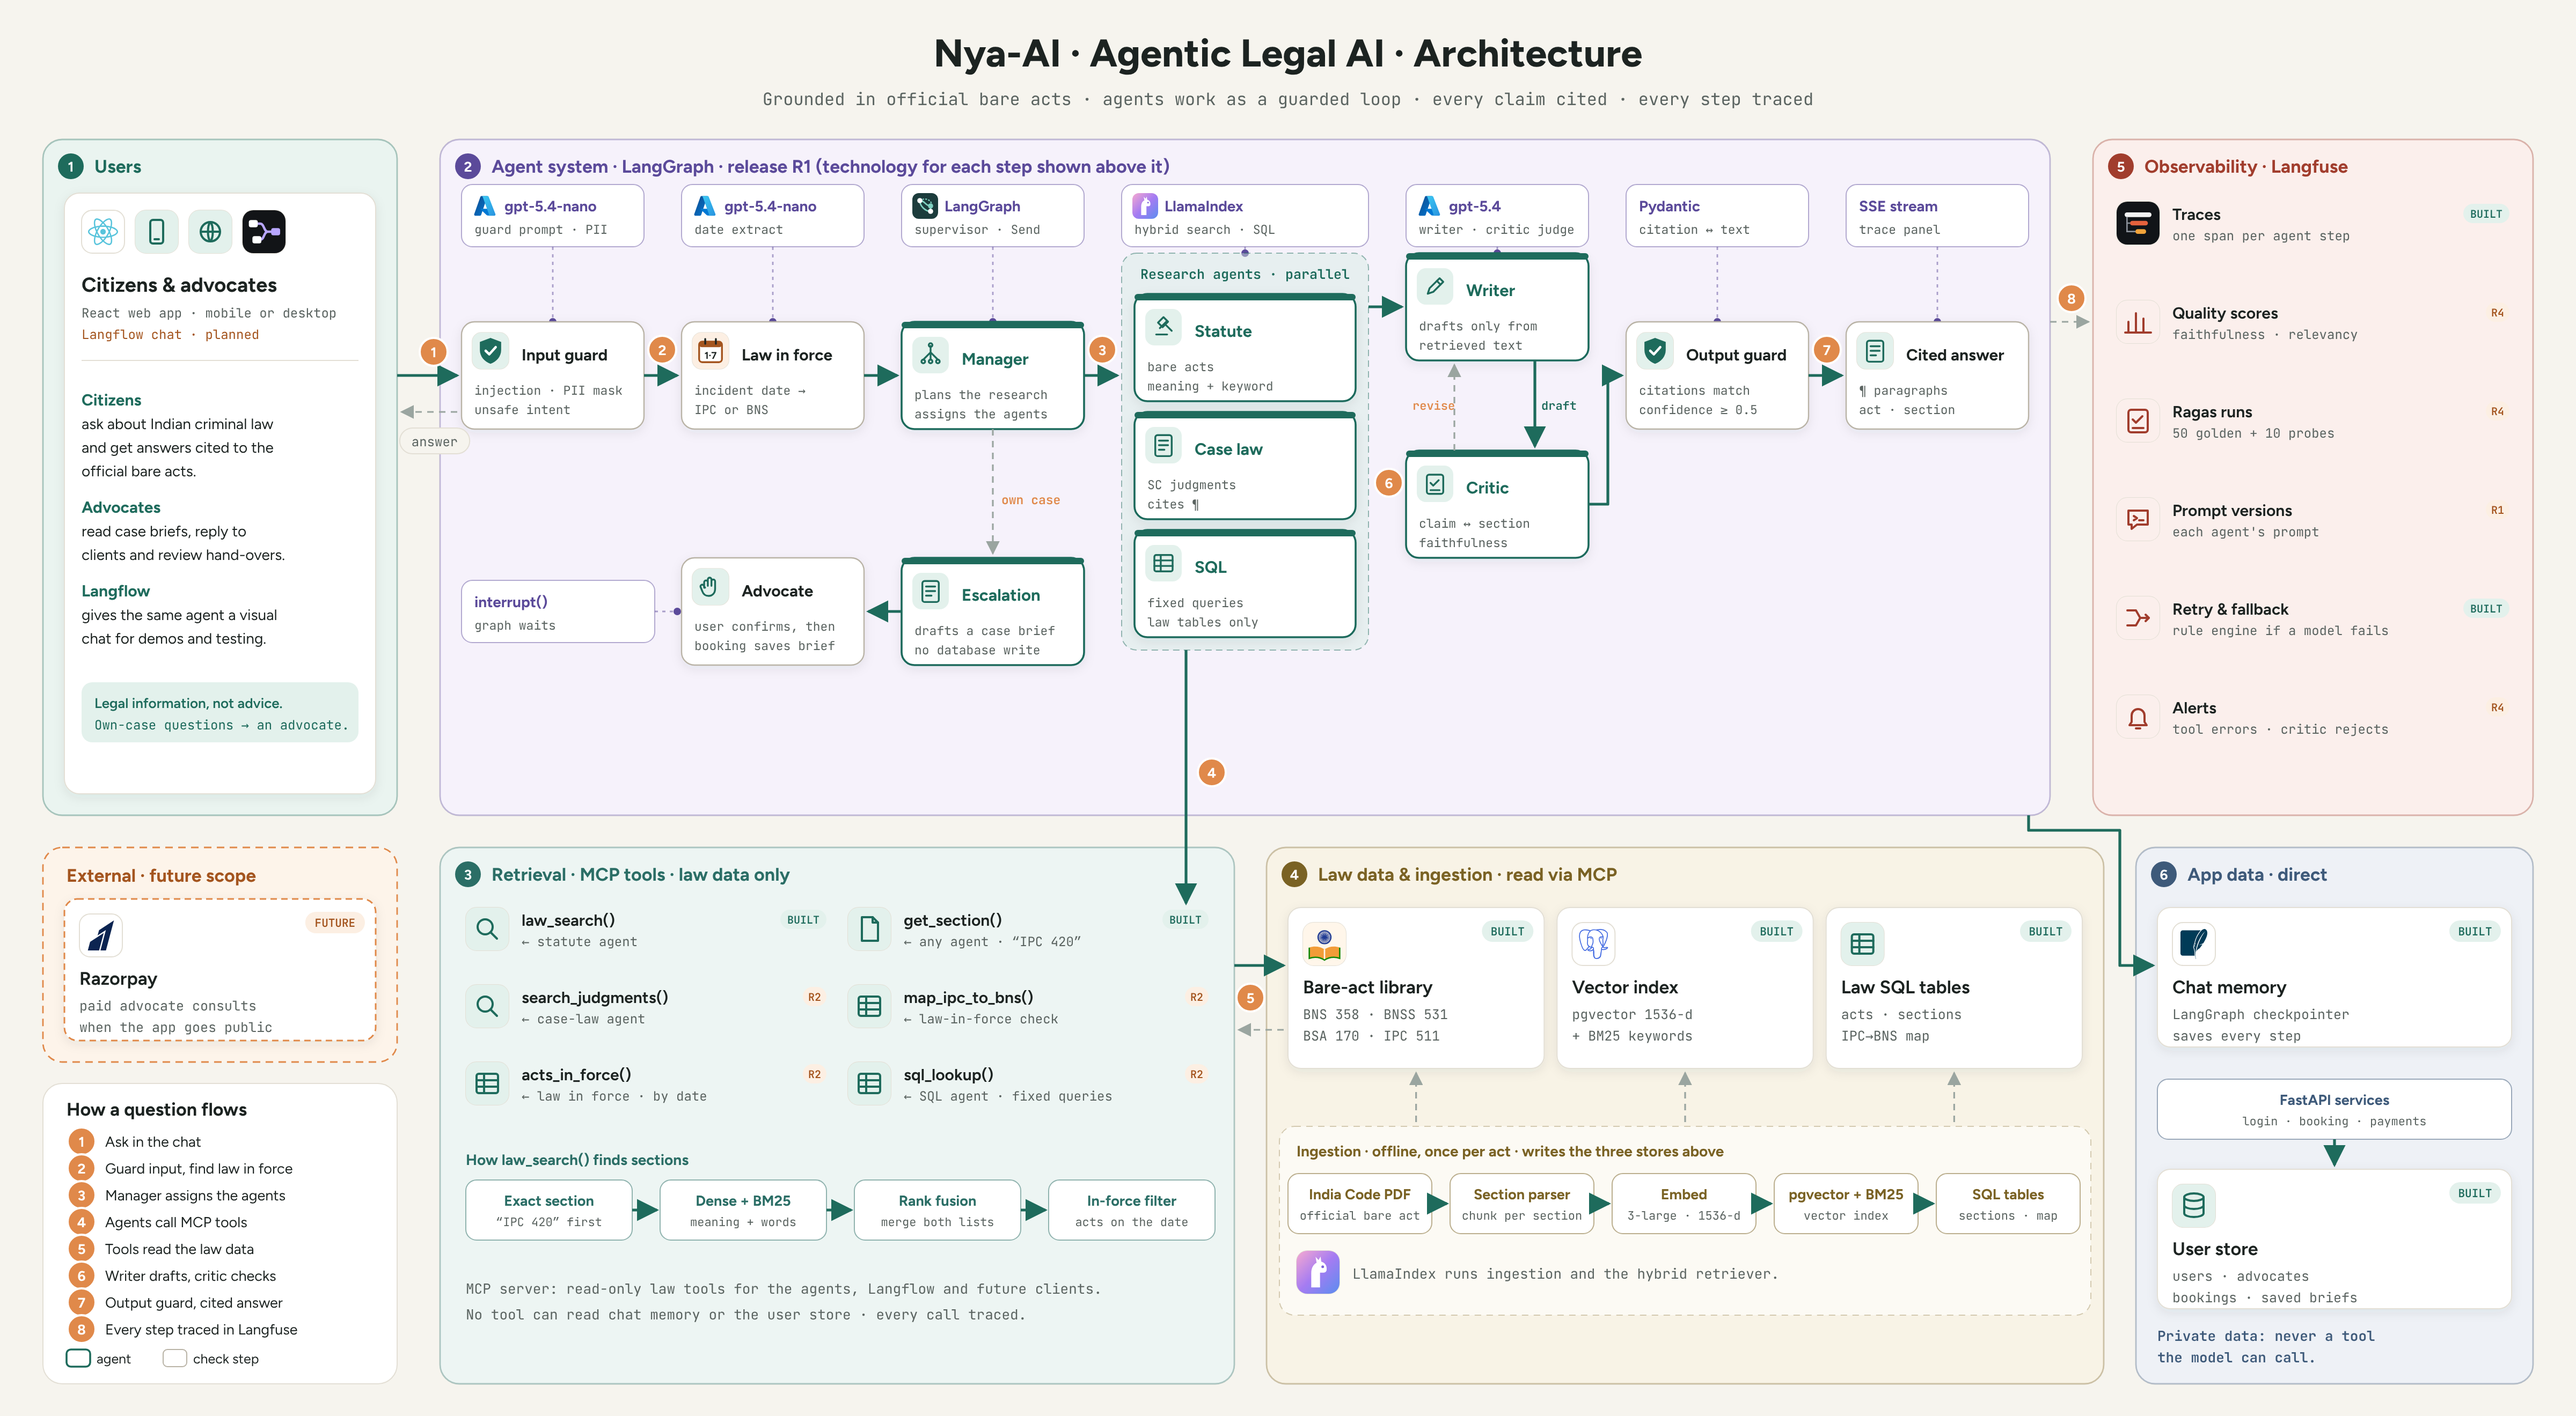
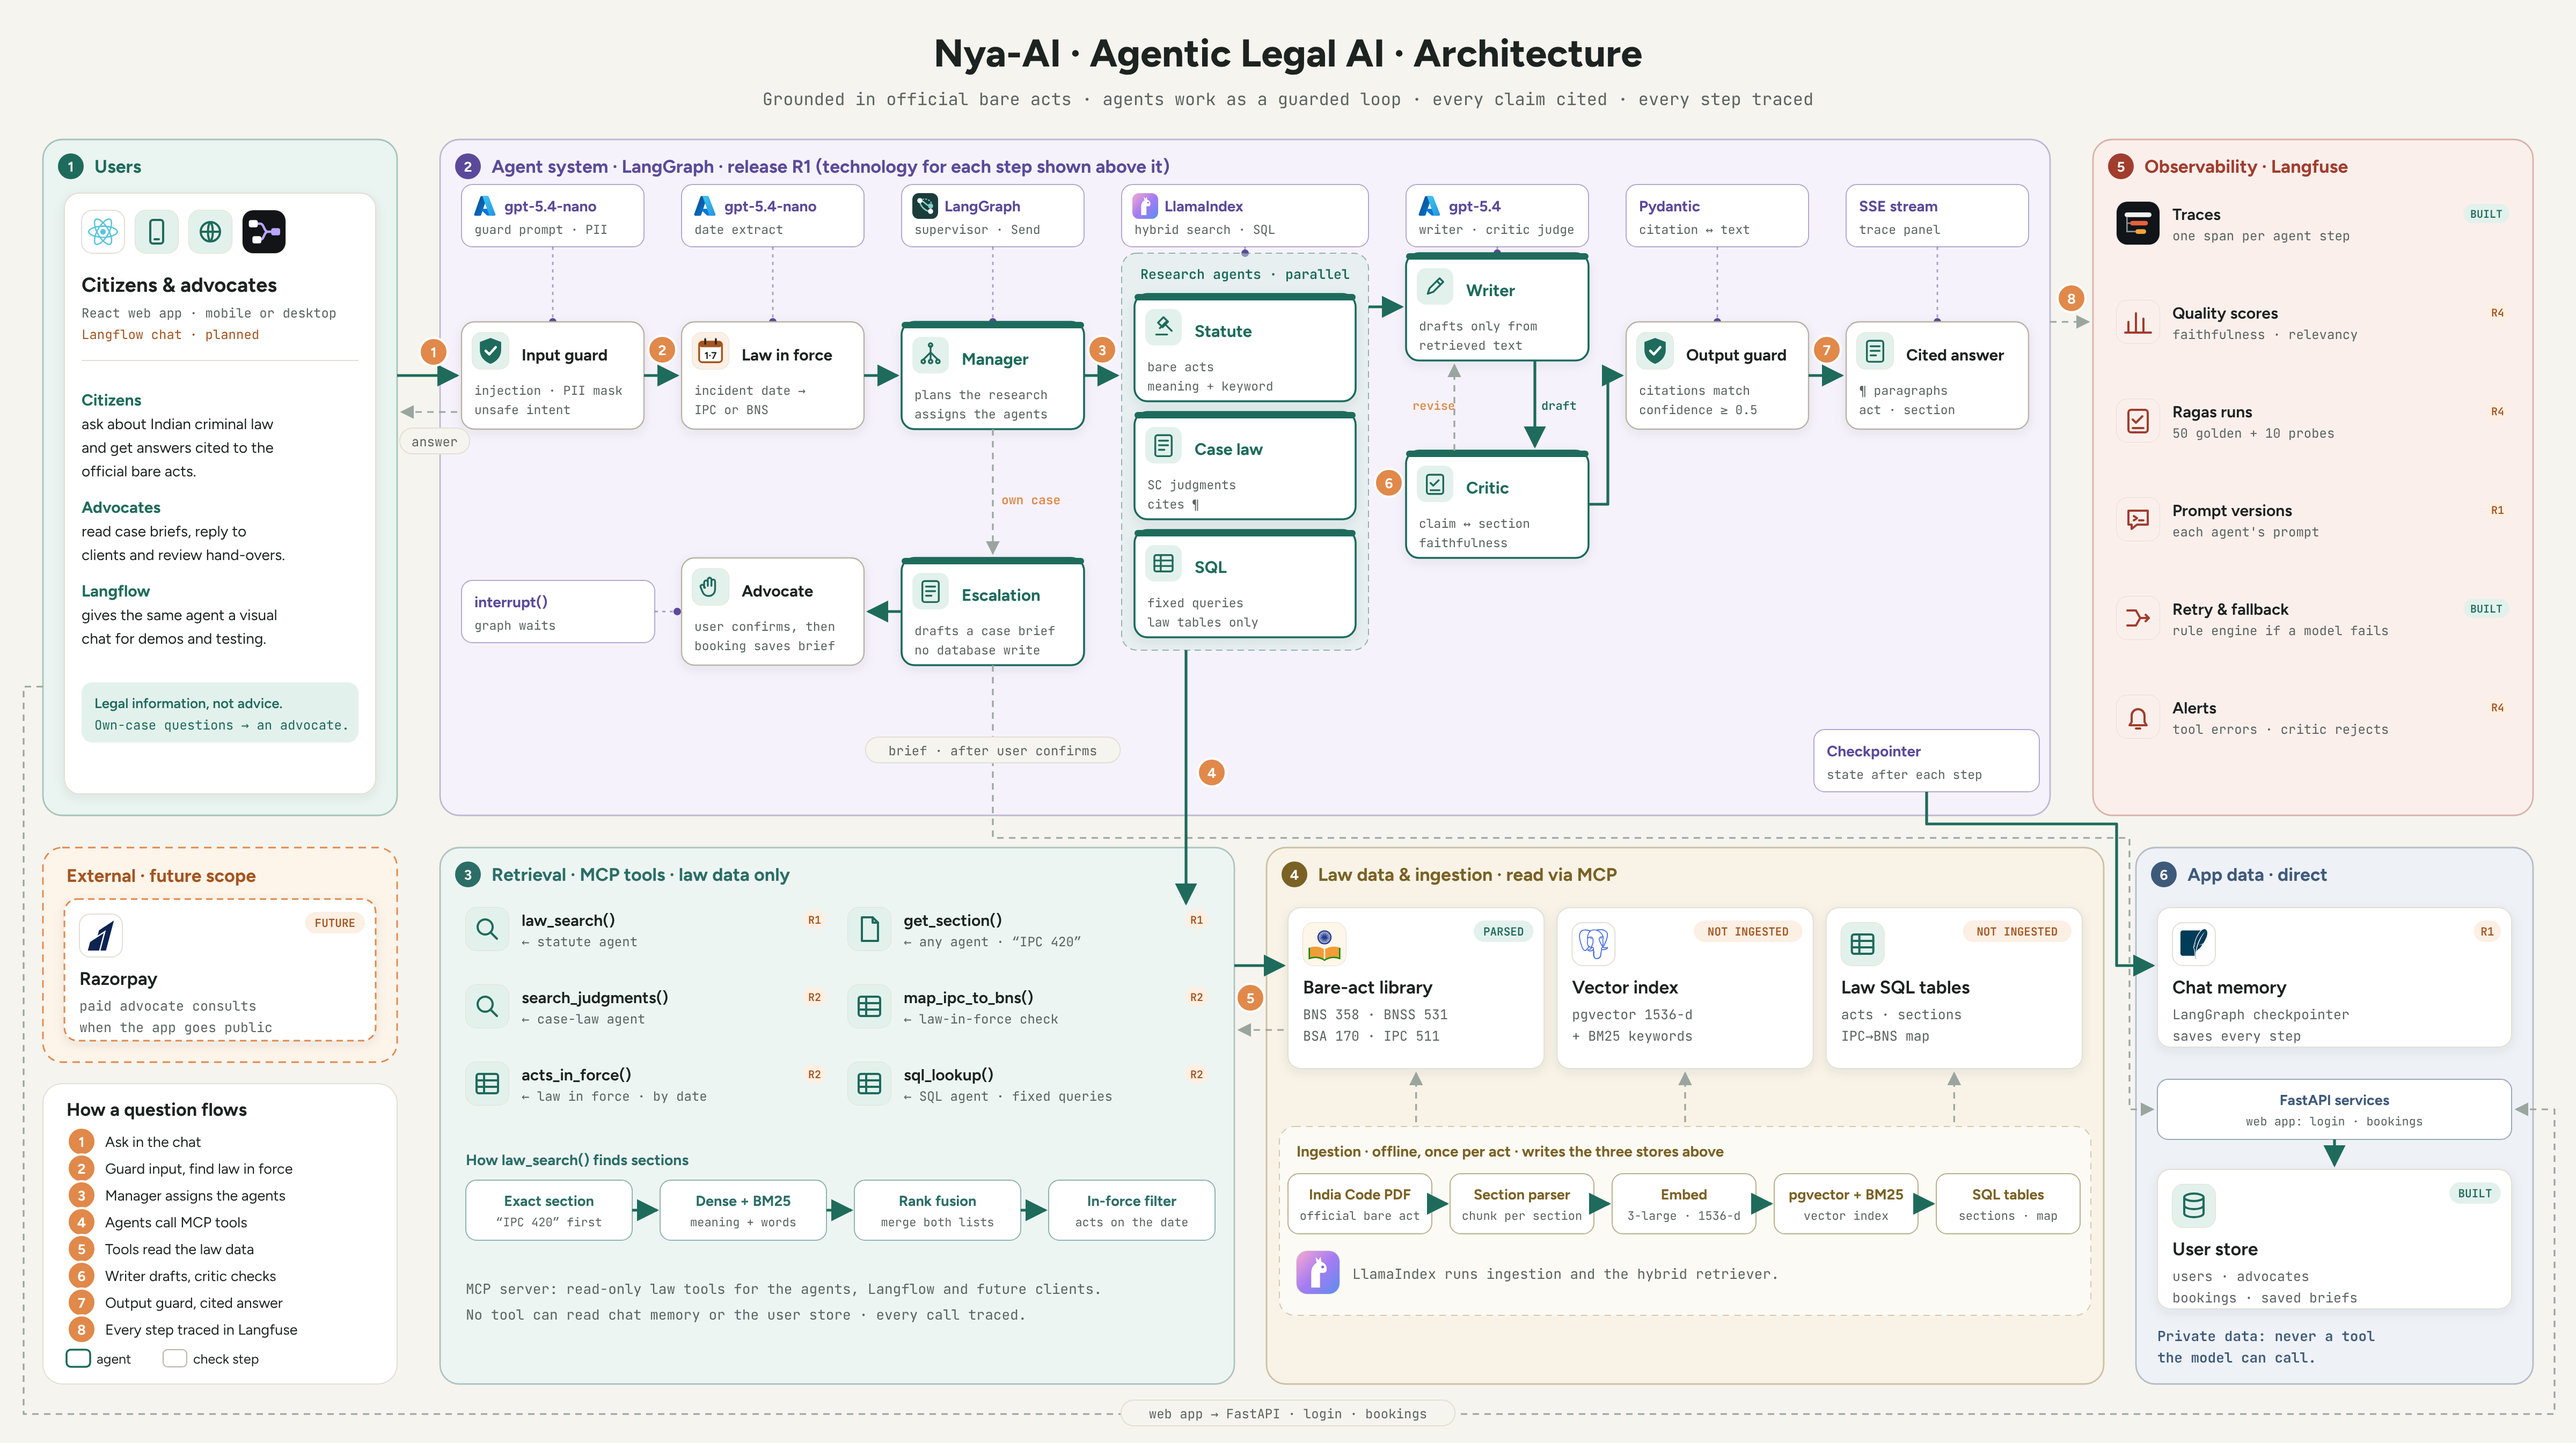
Architecture: label the checkpointer, wire web app and escalation brief to FastAPI, honest status badges
Claude-Session: https://claude.ai/code/session_01LU87o4F4G7N5N385mtQnru

diff --git a/docs/diagrams/draw_v7.py b/docs/diagrams/draw_v7.py
@@ -4,7 +4,7 @@ from draw import (AMBER, AMBER_T, BG, CLAY, EDGE, INK, LINE, MONO, MUTED, SAGE, 
                   defs, mark_azure, mark_calendar, mark_indiacode, mark_langfuse,
                   mark_langgraph, mark_llamaindex, mark_shield, simple)
 
-W, H = 2400, 1320
+W, H = 2400, 1345
 JADE, JADE_L, JADE_T = "#1E6B5C", "#2C7D6C", "#D5EAE3"
 VIO = "#5B4A9A"
 
@@ -157,7 +157,7 @@ def build():
         b.append(item(RX + 22, 188 + i * 92, g, t, s_, RW - 44, tag, tag != "BUILT"))
 
     # ---- 3 retrieval: MCP tools ----
-    tools = [("law_search()", "← statute agent", "BUILT"), ("get_section()", "← any agent · \u201cIPC 420\u201d", "BUILT"),
+    tools = [("law_search()", "← statute agent", "R1"), ("get_section()", "← any agent · \u201cIPC 420\u201d", "R1"),
              ("search_judgments()", "← case-law agent", "R2"), ("map_ipc_to_bns()", "← law-in-force check", "R2"),
              ("acts_in_force()", "← law in force · by date", "R2"), ("sql_lookup()", "← SQL agent · fixed queries", "R2")]
     tico = ["search", "file", "search", "table", "table", "table"]
@@ -177,11 +177,11 @@ def build():
     # ---- 4 law data + ingestion ----
     kx, kwid = CX + 790, 740
     kw = (kwid - 24) / 3
-    kb = [("Bare-act library", ["BNS 358 · BNSS 531", "BSA 170 · IPC 511"], [tile(mark_indiacode(0, 0, 40), 0)], "BUILT"),
-          ("Vector index", ["pgvector 1536-d", "+ BM25 keywords"], [tile(simple("postgresql", 0, 0, 28))], "BUILT"),
-          ("Law SQL tables", ["acts · sections", "IPC→BNS map"], [tile(icon("table"), 0)], "BUILT")]
+    kb = [("Bare-act library", ["BNS 358 · BNSS 531", "BSA 170 · IPC 511"], [tile(mark_indiacode(0, 0, 40), 0)], "PARSED"),
+          ("Vector index", ["pgvector 1536-d", "+ BM25 keywords"], [tile(simple("postgresql", 0, 0, 28))], "NOT INGESTED"),
+          ("Law SQL tables", ["acts · sections", "IPC→BNS map"], [tile(icon("table"), 0)], "NOT INGESTED")]
     for i, (t_, ln, ics, tag) in enumerate(kb):
-        b.append(box(kx + i * (kw + 12), 846, kw, 150, t_, ln, ics, tag))
+        b.append(box(kx + i * (kw + 12), 846, kw, 150, t_, ln, ics, tag, amber=tag != "PARSED"))
         cxm = kx + i * (kw + 12) + kw / 2
         b.append(arrow([(cxm, 1046), (cxm, 1000)], dashed=True))
     b.append(f'<rect x="{kx - 8}" y="1050" width="{kwid + 16}" height="176" rx="14" fill="#FFFFFF" fill-opacity=".55" stroke="#7A6224" stroke-opacity=".3" stroke-dasharray="6 5"/>')
@@ -199,14 +199,21 @@ def build():
 
     # ---- 6 app data: direct, never via MCP ----
     ax, aw = 2010, RX + RW - 2030
-    b.append(box(ax, 846, aw, 130, "Chat memory", ["LangGraph checkpointer", "saves every step"], [tile(simple("sqlite", 0, 0, 28))], "BUILT"))
-    b.append(pill(ax, 1006, aw, "FastAPI services", "login · booking · payments", "#3E5A7A"))
+    b.append(box(ax, 846, aw, 130, "Chat memory", ["LangGraph checkpointer", "saves every step"], [tile(simple("sqlite", 0, 0, 28))], "R1", amber=True))
+    b.append(pill(ax, 1006, aw, "FastAPI services", "web app: login · bookings", "#3E5A7A"))
     b.append(arrow([(ax + aw / 2, 1062), (ax + aw / 2, 1086)], main=True))
     b.append(box(ax, 1090, aw, 130, "User store", ["users · advocates", "bookings · saved briefs"], [tile(icon("db"), 0)], "BUILT"))
     b.append(txt(ax, 1250, "Private data: never a tool", 13, 600, "#3E5A7A", MONO))
     b.append(txt(ax, 1270, "the model can call.", 13, 600, "#3E5A7A", MONO))
     # graph -> chat memory, direct
-    b.append(arrow([(1890, 760), (1890, 774), (1975, 774), (1975, 900), (ax - 4, 900)], main=True))
+    b.append(chip(1690, 680, 210, "Checkpointer", "state after each step", None))
+    b.append(arrow([(1795, 738), (1795, 768), (1972, 768), (1972, 900), (ax - 4, 900)], main=True))
+    # users -> FastAPI services, routed along the outer margin
+    b.append(arrow([(LX, 640), (22, 640), (22, 1318), (2380, 1318), (2380, 1034), (ax + aw + 4, 1034)], dashed=True,
+                   label="web app → FastAPI · login · bookings", lx=1200, ly=1318))
+    # escalation -> booking service (brief saved only after the user confirms)
+    b.append(arrow([(925, 620), (925, 781), (1984, 781), (1984, 1034), (ax - 4, 1034)], dashed=True,
+                   label="brief · after user confirms", lx=925, ly=700))
 
     # wiring
     b.append(arrow([(sx + 60, 606), (sx + 60, 842)], main=True)); b.append(step(4, sx + 84, 720))
